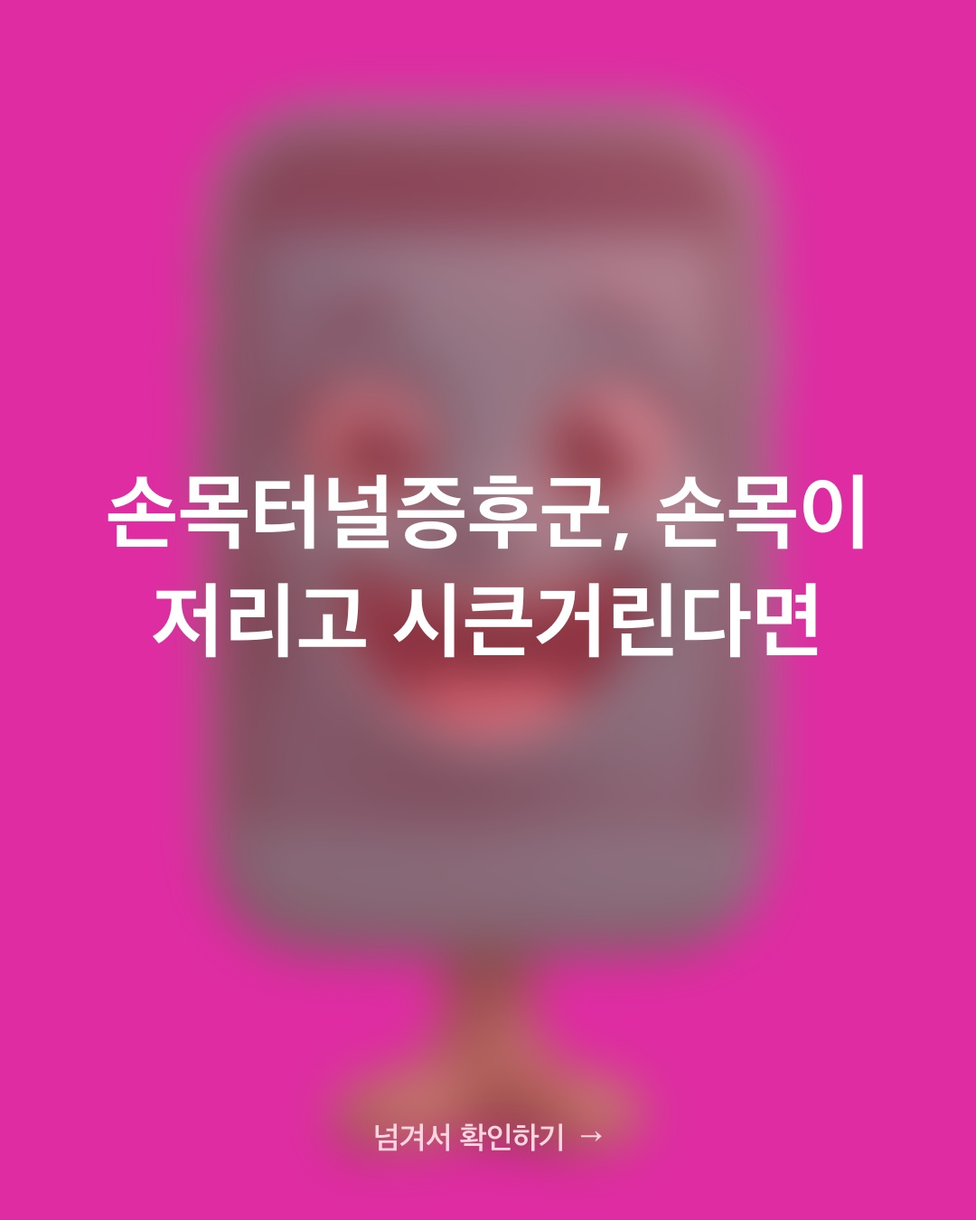
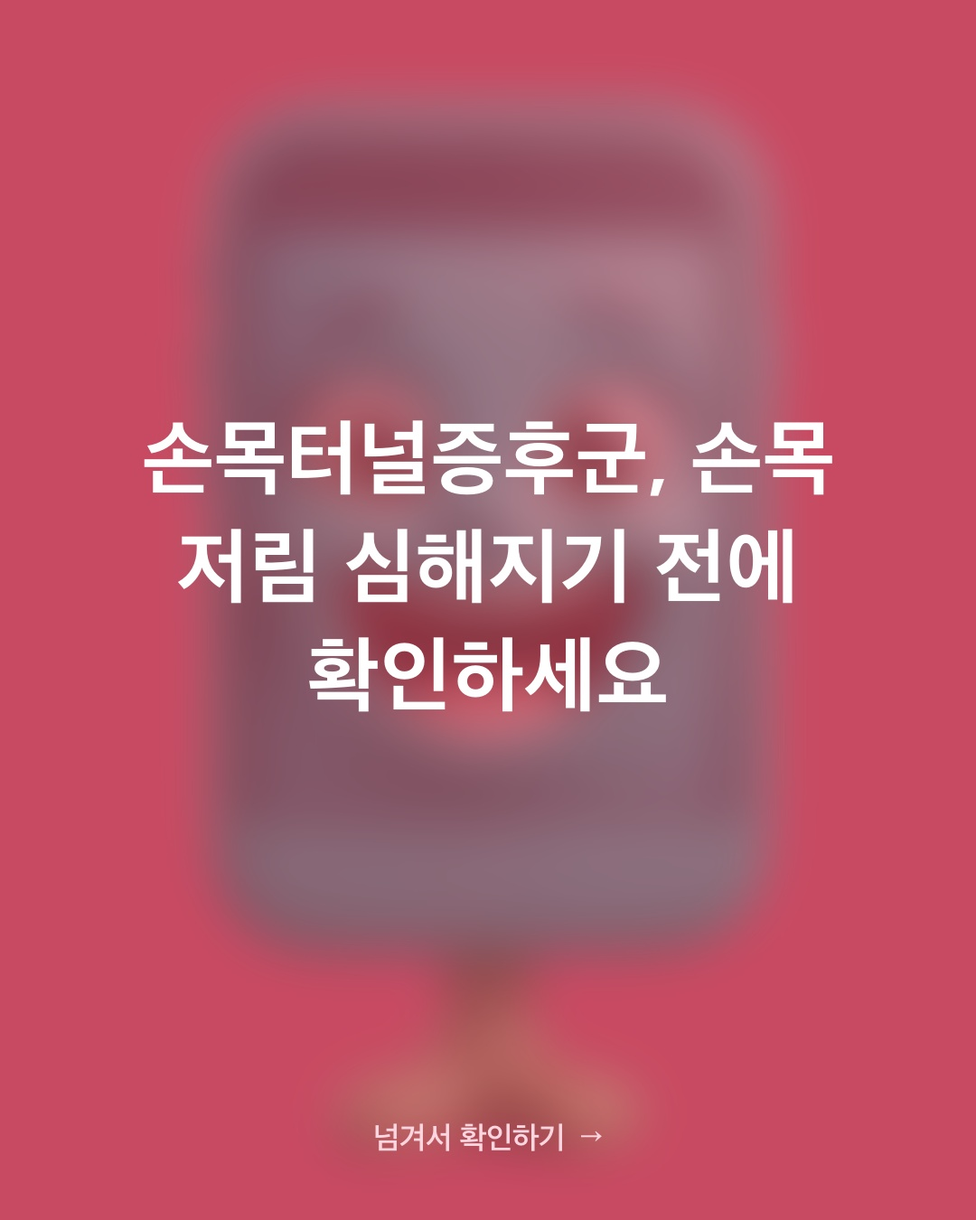
fix(content): 손발_3/입_8/코_4/손발_4 제목 훅 패턴 획일화 수정 + QA 체크리스트 보강
4개 topic 전부 "[키워드], ~다면 - OO 습관"이라는 동일한 조건문 패턴으로
제목이 획일화된 문제 발견(사용자 지적) — content_review.py의
select_hook_pattern()이 이미 topic별로 12종 패턴을 결정론적으로 배정하는데도
실제로 안 돌려서 못 지켜졌음. 각 topic의 실제 배정 패턴대로 재작성:
- 손발_3(손목터널증후군)·손발_4(족저근막염): 긴급/시급성형 "~라면 지금 확인하세요"
- 입_8(치석): 비교/대조형 "~가 아니라 이 습관 때문일 수 있어요"
- 코_4(축농증): 직접화법 질문형 "혹시 ~하지 않나요?"

카드뉴스 표지 이미지·영상 타이틀 카드·9개 플랫폼 캡션 전부 갱신, content_review
재통과 확인.

재발 방지: CLAUDE.md "콘텐츠 QA — 완료 전 필수" 체크리스트에 --hook-pattern
명령을 content_review/--lang-check와 나란히 추가 — "콘텐츠 톤" 절에만
있어서 실제 완료 게이트에서 누락됐던 구조적 원인 수정.

diff --git a/output/손발_4/ko/dashboard.html b/output/손발_4/ko/dashboard.html
@@ -3,7 +3,7 @@
 <head>
 <meta charset="UTF-8">
 <meta name="viewport" content="width=device-width, initial-scale=1.0">
-<title>족저근막염, 아침 첫 걸음에 발뒤꿈치가 찌릿하다면 - 발 지키는 습관 — 업로드 대시보드</title>
+<title>족저근막염, 첫 걸음이 찌릿하다면 지금 확인하세요 - 발 지키는 습관 — 업로드 대시보드</title>
 <style>
   :root {
     --bg-top: #fdf9f5; --bg-bottom: #f6ede6;
@@ -221,7 +221,7 @@
 <body>
 <header>
   <div class="eyebrow">업로드 대시보드</div>
-  <h1>족저근막염, 아침 첫 걸음에 발뒤꿈치가 찌릿하다면 - 발 지키는 습관</h1>
+  <h1>족저근막염, 첫 걸음이 찌릿하다면 지금 확인하세요 - 발 지키는 습관</h1>
   <span class="ad-tag-badge">🏷 광고표시 적용</span>
 </header>
 
@@ -311,7 +311,7 @@
   </div>
   <div class="action-line">영상 다운로드 → 릴스로 업로드 → 캡션 복사해서 붙여넣기</div>
   <a class="asset-link" href="card_news/%EC%86%90%EB%B0%9C_4_00_%ED%91%9C%EC%A7%80.jpg" download="손발_4_00_표지.jpg">🖼 표지 이미지 다운로드 (선택)</a>
-  <textarea class="caption-box" id="cap-0" spellcheck="false">아침 첫 걸음에 발뒤꿈치가 찌릿하다면? 👀
+  <textarea class="caption-box" id="cap-0" spellcheck="false">족저근막염, 첫 걸음이 찌릿하다면 지금 확인하세요 👀
 
 운동량 천천히, 쿠션 있는 신발, 아침 스트레칭 — 이 세 가지만 신경 써도 도움이 될 수 있어요. 운동량은 조금씩 늘리고, 서 있는 날엔 쿠션 신발을, 일어나기 전엔 발목을 돌려보세요.
 
@@ -342,7 +342,7 @@
   </div>
   <div class="action-line">PC 링크는 제한적 — 모바일 네이버 앱에서 클립 업로드 → 캡션 복사해서 붙여넣기 (설명 300자 제한 기준으로 작성함)</div>
   <a class="asset-link" href="card_news/%EC%86%90%EB%B0%9C_4_00_%ED%91%9C%EC%A7%80.jpg" download="손발_4_00_표지.jpg">🖼 표지 이미지 다운로드 (선택)</a>
-  <textarea class="caption-box" id="cap-1" spellcheck="false">아침 첫 걸음에 발뒤꿈치가 찌릿하다면?
+  <textarea class="caption-box" id="cap-1" spellcheck="false">족저근막염, 첫 걸음이 찌릿하다면 지금 확인하세요.
 
 운동량 급증, 쿠션 없는 신발, 아침 스트레칭 생략이 족저근막 손상을 더 키워요. 운동량은 천천히, 일어나기 전엔 발목을 돌려보세요!
 
@@ -371,7 +371,7 @@
   </div>
   <div class="action-line">캡션 복사 → 새 게시물 작성 → 붙여넣기 (표지 이미지 첨부 권장) → 게시 후 댓글에 구매 링크 추가</div>
   <a class="asset-link" href="card_news/%EC%86%90%EB%B0%9C_4_00_%ED%91%9C%EC%A7%80.jpg" download="손발_4_00_표지.jpg">🖼 표지 이미지 다운로드 (선택)</a>
-  <textarea class="caption-box" id="cap-2" spellcheck="false">족저근막염, 아침 첫 걸음에 발뒤꿈치가 찌릿하다면 - 발 지키는 습관
+  <textarea class="caption-box" id="cap-2" spellcheck="false">족저근막염, 첫 걸음이 찌릿하다면 지금 확인하세요 - 발 지키는 습관
 
 운동량 급증, 쿠션 없는 신발, 아침 스트레칭 생략이 족저근막 손상을 더 키워요. 운동량은 조금씩 늘리고, 서 있는 날엔 쿠션 신발을 신고, 일어나기 전 발목·종아리를 늘려주면 첫걸음 통증을 줄일 수 있어요.
 
@@ -405,7 +405,7 @@
   </div>
   <div class="action-line">캡션 복사 → 붙여넣기 (표지 이미지는 위 다운로드 버튼으로 별도 삽입, 나머지는 번호 위치에 해당 이미지 직접 삽입)</div>
   <a class="asset-link" href="card_news/%EC%86%90%EB%B0%9C_4_00_%ED%91%9C%EC%A7%80.jpg" download="손발_4_00_표지.jpg">🖼 표지 이미지 다운로드 (선택)</a>
-  <textarea class="caption-box" id="cap-3" spellcheck="false">족저근막염, 아침 첫 걸음에 발뒤꿈치가 찌릿하다면 - 발 지키는 습관
+  <textarea class="caption-box" id="cap-3" spellcheck="false">족저근막염, 첫 걸음이 찌릿하다면 지금 확인하세요 - 발 지키는 습관
 
 00 · 표지
 
@@ -479,7 +479,7 @@
   </div>
   <div class="action-line">캡션 복사 → 붙여넣기 (표지 이미지는 위 다운로드 버튼으로 별도 삽입, 나머지는 번호 위치에 해당 이미지 직접 삽입)</div>
   <a class="asset-link" href="card_news/%EC%86%90%EB%B0%9C_4_00_%ED%91%9C%EC%A7%80.jpg" download="손발_4_00_표지.jpg">🖼 표지 이미지 다운로드 (선택)</a>
-  <textarea class="caption-box" id="cap-4" spellcheck="false">족저근막염, 아침 첫 걸음에 발뒤꿈치가 찌릿하다면 - 발 지키는 습관
+  <textarea class="caption-box" id="cap-4" spellcheck="false">족저근막염, 첫 걸음이 찌릿하다면 지금 확인하세요 - 발 지키는 습관
 
 00 · 표지
 

diff --git a/output/입_8/ko/dashboard.html b/output/입_8/ko/dashboard.html
@@ -3,7 +3,7 @@
 <head>
 <meta charset="UTF-8">
 <meta name="viewport" content="width=device-width, initial-scale=1.0">
-<title>치석, 양치를 꼬박꼬박 하는데도 자꾸 낀다면 - 치석 막는 습관 — 업로드 대시보드</title>
+<title>치석, 양치 부족이 아니라 이 습관 때문일 수 있어요 - 치석 막는 습관 — 업로드 대시보드</title>
 <style>
   :root {
     --bg-top: #fdf9f5; --bg-bottom: #f6ede6;
@@ -221,7 +221,7 @@
 <body>
 <header>
   <div class="eyebrow">업로드 대시보드</div>
-  <h1>치석, 양치를 꼬박꼬박 하는데도 자꾸 낀다면 - 치석 막는 습관</h1>
+  <h1>치석, 양치 부족이 아니라 이 습관 때문일 수 있어요 - 치석 막는 습관</h1>
   <span class="ad-tag-badge">🏷 광고표시 적용</span>
 </header>
 
@@ -311,7 +311,7 @@
   </div>
   <div class="action-line">영상 다운로드 → 릴스로 업로드 → 캡션 복사해서 붙여넣기</div>
   <a class="asset-link" href="card_news/%EC%9E%85_8_00_%ED%91%9C%EC%A7%80.jpg" download="입_8_00_표지.jpg">🖼 표지 이미지 다운로드 (선택)</a>
-  <textarea class="caption-box" id="cap-0" spellcheck="false">양치를 꼬박꼬박 하는데도 치석이 자꾸 낀다면? 👀
+  <textarea class="caption-box" id="cap-0" spellcheck="false">치석, 양치 부족이 아니라 이 습관 때문일 수 있어요 👀
 
 치실·치간칫솔, 자기 전 양치, 간식 횟수 — 이 세 가지만 신경 써도 도움이 될 수 있어요. 칫솔질 후엔 치실로 마무리하고, 자기 전 양치는 꼭 챙기고, 단 음식은 횟수를 줄여보세요.
 
@@ -342,7 +342,7 @@
   </div>
   <div class="action-line">PC 링크는 제한적 — 모바일 네이버 앱에서 클립 업로드 → 캡션 복사해서 붙여넣기 (설명 300자 제한 기준으로 작성함)</div>
   <a class="asset-link" href="card_news/%EC%9E%85_8_00_%ED%91%9C%EC%A7%80.jpg" download="입_8_00_표지.jpg">🖼 표지 이미지 다운로드 (선택)</a>
-  <textarea class="caption-box" id="cap-1" spellcheck="false">양치를 꼬박꼬박 하는데도 치석이 자꾸 낀다면?
+  <textarea class="caption-box" id="cap-1" spellcheck="false">치석, 양치 부족이 아니라 이 습관 때문일 수 있어요.
 
 치실·치간칫솔 안 쓰기, 자기 전 양치 거르기, 잦은 단 음식이 치석을 더 빨리 만들어요. 칫솔질 후 치실로 마무리하고, 자기 전 양치는 꼭 챙기세요!
 
@@ -371,7 +371,7 @@
   </div>
   <div class="action-line">캡션 복사 → 새 게시물 작성 → 붙여넣기 (표지 이미지 첨부 권장) → 게시 후 댓글에 구매 링크 추가</div>
   <a class="asset-link" href="card_news/%EC%9E%85_8_00_%ED%91%9C%EC%A7%80.jpg" download="입_8_00_표지.jpg">🖼 표지 이미지 다운로드 (선택)</a>
-  <textarea class="caption-box" id="cap-2" spellcheck="false">치석, 양치를 꼬박꼬박 하는데도 자꾸 낀다면 - 치석 막는 습관
+  <textarea class="caption-box" id="cap-2" spellcheck="false">치석, 양치 부족이 아니라 이 습관 때문일 수 있어요 - 치석 막는 습관
 
 치실·치간칫솔 안 쓰기, 자기 전 양치 거르기, 잦은 단 음식이 치석을 더 빨리 만들어요. 칫솔질 후엔 치실로 마무리하고, 자기 전 양치는 꼭 챙기고, 단 음식은 횟수를 줄이면 치석 생기는 속도를 늦출 수 있어요.
 
@@ -405,7 +405,7 @@
   </div>
   <div class="action-line">캡션 복사 → 붙여넣기 (표지 이미지는 위 다운로드 버튼으로 별도 삽입, 나머지는 번호 위치에 해당 이미지 직접 삽입)</div>
   <a class="asset-link" href="card_news/%EC%9E%85_8_00_%ED%91%9C%EC%A7%80.jpg" download="입_8_00_표지.jpg">🖼 표지 이미지 다운로드 (선택)</a>
-  <textarea class="caption-box" id="cap-3" spellcheck="false">치석, 양치를 꼬박꼬박 하는데도 자꾸 낀다면 - 치석 막는 습관
+  <textarea class="caption-box" id="cap-3" spellcheck="false">치석, 양치 부족이 아니라 이 습관 때문일 수 있어요 - 치석 막는 습관
 
 00 · 표지
 
@@ -479,7 +479,7 @@
   </div>
   <div class="action-line">캡션 복사 → 붙여넣기 (표지 이미지는 위 다운로드 버튼으로 별도 삽입, 나머지는 번호 위치에 해당 이미지 직접 삽입)</div>
   <a class="asset-link" href="card_news/%EC%9E%85_8_00_%ED%91%9C%EC%A7%80.jpg" download="입_8_00_표지.jpg">🖼 표지 이미지 다운로드 (선택)</a>
-  <textarea class="caption-box" id="cap-4" spellcheck="false">치석, 양치를 꼬박꼬박 하는데도 자꾸 낀다면 - 치석 막는 습관
+  <textarea class="caption-box" id="cap-4" spellcheck="false">치석, 양치 부족이 아니라 이 습관 때문일 수 있어요 - 치석 막는 습관
 
 00 · 표지
 

diff --git a/output/손발_3/ko/dashboard.html b/output/손발_3/ko/dashboard.html
@@ -3,7 +3,7 @@
 <head>
 <meta charset="UTF-8">
 <meta name="viewport" content="width=device-width, initial-scale=1.0">
-<title>손목터널증후군, 손목이 저리고 시큰거린다면 - 손목 지키는 습관 — 업로드 대시보드</title>
+<title>손목터널증후군, 손목 저림 심해지기 전에 확인하세요 - 손목 지키는 습관 — 업로드 대시보드</title>
 <style>
   :root {
     --bg-top: #fdf9f5; --bg-bottom: #f6ede6;
@@ -221,7 +221,7 @@
 <body>
 <header>
   <div class="eyebrow">업로드 대시보드</div>
-  <h1>손목터널증후군, 손목이 저리고 시큰거린다면 - 손목 지키는 습관</h1>
+  <h1>손목터널증후군, 손목 저림 심해지기 전에 확인하세요 - 손목 지키는 습관</h1>
   <span class="ad-tag-badge">🏷 광고표시 적용</span>
 </header>
 
@@ -311,7 +311,7 @@
   </div>
   <div class="action-line">영상 다운로드 → 릴스로 업로드 → 캡션 복사해서 붙여넣기</div>
   <a class="asset-link" href="card_news/%EC%86%90%EB%B0%9C_3_00_%ED%91%9C%EC%A7%80.jpg" download="손발_3_00_표지.jpg">🖼 표지 이미지 다운로드 (선택)</a>
-  <textarea class="caption-box" id="cap-0" spellcheck="false">손목이 저리고 시큰거린다면? 👀
+  <textarea class="caption-box" id="cap-0" spellcheck="false">손목 저림, 심해지기 전에 확인하세요 👀
 
 스마트폰·키보드마우스·수면 자세 — 이 세 가지만 신경 써도 도움이 될 수 있어요. 스마트폰은 손목 편 상태로, 키보드·마우스는 손목받침대로, 잘 땐 손목보호대를 착용해보세요.
 
@@ -342,7 +342,7 @@
   </div>
   <div class="action-line">PC 링크는 제한적 — 모바일 네이버 앱에서 클립 업로드 → 캡션 복사해서 붙여넣기 (설명 300자 제한 기준으로 작성함)</div>
   <a class="asset-link" href="card_news/%EC%86%90%EB%B0%9C_3_00_%ED%91%9C%EC%A7%80.jpg" download="손발_3_00_표지.jpg">🖼 표지 이미지 다운로드 (선택)</a>
-  <textarea class="caption-box" id="cap-1" spellcheck="false">손목이 저리고 시큰거린다면?
+  <textarea class="caption-box" id="cap-1" spellcheck="false">손목 저림, 심해지기 전에 확인하세요.
 
 스마트폰·키보드마우스·수면 자세가 손목 신경 압박을 더 키워요. 손목받침대 쓰고, 자기 전엔 손목보호대를 착용해보세요!
 
@@ -371,7 +371,7 @@
   </div>
   <div class="action-line">캡션 복사 → 새 게시물 작성 → 붙여넣기 (표지 이미지 첨부 권장) → 게시 후 댓글에 구매 링크 추가</div>
   <a class="asset-link" href="card_news/%EC%86%90%EB%B0%9C_3_00_%ED%91%9C%EC%A7%80.jpg" download="손발_3_00_표지.jpg">🖼 표지 이미지 다운로드 (선택)</a>
-  <textarea class="caption-box" id="cap-2" spellcheck="false">손목터널증후군, 손목이 저리고 시큰거린다면 - 손목 지키는 습관
+  <textarea class="caption-box" id="cap-2" spellcheck="false">손목터널증후군, 손목 저림 심해지기 전에 확인하세요 - 손목 지키는 습관
 
 스마트폰·키보드마우스·수면 자세가 손목 신경 압박을 더 키워요. 스마트폰은 손목 편 상태로, 키보드·마우스는 손목받침대로, 잘 땐 손목보호대를 착용하면 손목 부담을 줄일 수 있어요.
 
@@ -405,7 +405,7 @@
   </div>
   <div class="action-line">캡션 복사 → 붙여넣기 (표지 이미지는 위 다운로드 버튼으로 별도 삽입, 나머지는 번호 위치에 해당 이미지 직접 삽입)</div>
   <a class="asset-link" href="card_news/%EC%86%90%EB%B0%9C_3_00_%ED%91%9C%EC%A7%80.jpg" download="손발_3_00_표지.jpg">🖼 표지 이미지 다운로드 (선택)</a>
-  <textarea class="caption-box" id="cap-3" spellcheck="false">손목터널증후군, 손목이 저리고 시큰거린다면 - 손목 지키는 습관
+  <textarea class="caption-box" id="cap-3" spellcheck="false">손목터널증후군, 손목 저림 심해지기 전에 확인하세요 - 손목 지키는 습관
 
 00 · 표지
 
@@ -479,7 +479,7 @@
   </div>
   <div class="action-line">캡션 복사 → 붙여넣기 (표지 이미지는 위 다운로드 버튼으로 별도 삽입, 나머지는 번호 위치에 해당 이미지 직접 삽입)</div>
   <a class="asset-link" href="card_news/%EC%86%90%EB%B0%9C_3_00_%ED%91%9C%EC%A7%80.jpg" download="손발_3_00_표지.jpg">🖼 표지 이미지 다운로드 (선택)</a>
-  <textarea class="caption-box" id="cap-4" spellcheck="false">손목터널증후군, 손목이 저리고 시큰거린다면 - 손목 지키는 습관
+  <textarea class="caption-box" id="cap-4" spellcheck="false">손목터널증후군, 손목 저림 심해지기 전에 확인하세요 - 손목 지키는 습관
 
 00 · 표지
 

diff --git a/output/코_4/ko/dashboard.html b/output/코_4/ko/dashboard.html
@@ -3,7 +3,7 @@
 <head>
 <meta charset="UTF-8">
 <meta name="viewport" content="width=device-width, initial-scale=1.0">
-<title>축농증, 콧물이 누렇고 코가 계속 막힌다면 - 콧속 배출 돕는 습관 — 업로드 대시보드</title>
+<title>축농증, 혹시 콧물이 계속 막히지 않나요 - 콧속 배출 돕는 습관 — 업로드 대시보드</title>
 <style>
   :root {
     --bg-top: #fdf9f5; --bg-bottom: #f6ede6;
@@ -221,7 +221,7 @@
 <body>
 <header>
   <div class="eyebrow">업로드 대시보드</div>
-  <h1>축농증, 콧물이 누렇고 코가 계속 막힌다면 - 콧속 배출 돕는 습관</h1>
+  <h1>축농증, 혹시 콧물이 계속 막히지 않나요 - 콧속 배출 돕는 습관</h1>
   <span class="ad-tag-badge">🏷 광고표시 적용</span>
 </header>
 
@@ -311,7 +311,7 @@
   </div>
   <div class="action-line">영상 다운로드 → 릴스로 업로드 → 캡션 복사해서 붙여넣기</div>
   <a class="asset-link" href="card_news/%EC%BD%94_4_00_%ED%91%9C%EC%A7%80.jpg" download="코_4_00_표지.jpg">🖼 표지 이미지 다운로드 (선택)</a>
-  <textarea class="caption-box" id="cap-0" spellcheck="false">콧물이 누렇고 코가 계속 막힌다면? 👀
+  <textarea class="caption-box" id="cap-0" spellcheck="false">축농증, 혹시 콧물이 계속 막히지 않나요 👀
 
 코 살살 풀기, 스프레이 3일 제한, 실내 습도 — 이 세 가지만 신경 써도 도움이 될 수 있어요. 코는 한쪽씩 살살 풀고, 스프레이는 3일 넘게 쓰지 말고, 습도는 40~50%로 맞춰보세요.
 
@@ -342,7 +342,7 @@
   </div>
   <div class="action-line">PC 링크는 제한적 — 모바일 네이버 앱에서 클립 업로드 → 캡션 복사해서 붙여넣기 (설명 300자 제한 기준으로 작성함)</div>
   <a class="asset-link" href="card_news/%EC%BD%94_4_00_%ED%91%9C%EC%A7%80.jpg" download="코_4_00_표지.jpg">🖼 표지 이미지 다운로드 (선택)</a>
-  <textarea class="caption-box" id="cap-1" spellcheck="false">콧물이 누렇고 코가 계속 막힌다면?
+  <textarea class="caption-box" id="cap-1" spellcheck="false">축농증, 혹시 콧물이 계속 막히지 않나요?
 
 코 세게 풀기, 스프레이 3일 넘게 쓰기, 건조한 실내 공기가 부비동 막힘을 더 키워요. 코는 살살 풀고, 습도는 40~50%로 맞춰보세요!
 
@@ -371,7 +371,7 @@
   </div>
   <div class="action-line">캡션 복사 → 새 게시물 작성 → 붙여넣기 (표지 이미지 첨부 권장) → 게시 후 댓글에 구매 링크 추가</div>
   <a class="asset-link" href="card_news/%EC%BD%94_4_00_%ED%91%9C%EC%A7%80.jpg" download="코_4_00_표지.jpg">🖼 표지 이미지 다운로드 (선택)</a>
-  <textarea class="caption-box" id="cap-2" spellcheck="false">축농증, 콧물이 누렇고 코가 계속 막힌다면 - 콧속 배출 돕는 습관
+  <textarea class="caption-box" id="cap-2" spellcheck="false">축농증, 혹시 콧물이 계속 막히지 않나요 - 콧속 배출 돕는 습관
 
 코 세게 풀기, 코 스프레이 3일 넘게 쓰기, 건조한 실내 공기가 부비동 막힘을 더 키워요. 코는 한쪽씩 살살 풀고, 스프레이는 3일 넘게 쓰지 말고, 습도는 40~50%로 맞추면 콧속 배출이 훨씬 수월해져요.
 
@@ -405,7 +405,7 @@
   </div>
   <div class="action-line">캡션 복사 → 붙여넣기 (표지 이미지는 위 다운로드 버튼으로 별도 삽입, 나머지는 번호 위치에 해당 이미지 직접 삽입)</div>
   <a class="asset-link" href="card_news/%EC%BD%94_4_00_%ED%91%9C%EC%A7%80.jpg" download="코_4_00_표지.jpg">🖼 표지 이미지 다운로드 (선택)</a>
-  <textarea class="caption-box" id="cap-3" spellcheck="false">축농증, 콧물이 누렇고 코가 계속 막힌다면 - 콧속 배출 돕는 습관
+  <textarea class="caption-box" id="cap-3" spellcheck="false">축농증, 혹시 콧물이 계속 막히지 않나요 - 콧속 배출 돕는 습관
 
 00 · 표지
 
@@ -479,7 +479,7 @@
   </div>
   <div class="action-line">캡션 복사 → 붙여넣기 (표지 이미지는 위 다운로드 버튼으로 별도 삽입, 나머지는 번호 위치에 해당 이미지 직접 삽입)</div>
   <a class="asset-link" href="card_news/%EC%BD%94_4_00_%ED%91%9C%EC%A7%80.jpg" download="코_4_00_표지.jpg">🖼 표지 이미지 다운로드 (선택)</a>
-  <textarea class="caption-box" id="cap-4" spellcheck="false">축농증, 콧물이 누렇고 코가 계속 막힌다면 - 콧속 배출 돕는 습관
+  <textarea class="caption-box" id="cap-4" spellcheck="false">축농증, 혹시 콧물이 계속 막히지 않나요 - 콧속 배출 돕는 습관
 
 00 · 표지
 

diff --git a/output/손발_3/dashboard.html b/output/손발_3/dashboard.html
@@ -3,7 +3,7 @@
 <head>
 <meta charset="UTF-8">
 <meta name="viewport" content="width=device-width, initial-scale=1.0">
-<title>손목터널증후군, 손목이 저리고 시큰거린다면 - 손목 지키는 습관 — 업로드 대시보드</title>
+<title>손목터널증후군, 손목 저림 심해지기 전에 확인하세요 - 손목 지키는 습관 — 업로드 대시보드</title>
 <style>
   :root {
     --bg-top: #fdf9f5; --bg-bottom: #f6ede6;
@@ -77,7 +77,7 @@
 <body>
 <a class="back" href="../../index.html">← 목록으로</a>
 <header>
-  <h1>손목터널증후군, 손목이 저리고 시큰거린다면 - 손목 지키는 습관</h1>
+  <h1>손목터널증후군, 손목 저림 심해지기 전에 확인하세요 - 손목 지키는 습관</h1>
   <p>언어별로 캡션·영상을 확인·업로드하세요 — 한 언어씩 완료해도 그대로 나머지가 이어집니다</p>
 </header>
 <main>

diff --git a/output/손발_4/dashboard.html b/output/손발_4/dashboard.html
@@ -3,7 +3,7 @@
 <head>
 <meta charset="UTF-8">
 <meta name="viewport" content="width=device-width, initial-scale=1.0">
-<title>족저근막염, 아침 첫 걸음에 발뒤꿈치가 찌릿하다면 - 발 지키는 습관 — 업로드 대시보드</title>
+<title>족저근막염, 첫 걸음이 찌릿하다면 지금 확인하세요 - 발 지키는 습관 — 업로드 대시보드</title>
 <style>
   :root {
     --bg-top: #fdf9f5; --bg-bottom: #f6ede6;
@@ -77,7 +77,7 @@
 <body>
 <a class="back" href="../../index.html">← 목록으로</a>
 <header>
-  <h1>족저근막염, 아침 첫 걸음에 발뒤꿈치가 찌릿하다면 - 발 지키는 습관</h1>
+  <h1>족저근막염, 첫 걸음이 찌릿하다면 지금 확인하세요 - 발 지키는 습관</h1>
   <p>언어별로 캡션·영상을 확인·업로드하세요 — 한 언어씩 완료해도 그대로 나머지가 이어집니다</p>
 </header>
 <main>

diff --git a/output/입_8/dashboard.html b/output/입_8/dashboard.html
@@ -3,7 +3,7 @@
 <head>
 <meta charset="UTF-8">
 <meta name="viewport" content="width=device-width, initial-scale=1.0">
-<title>치석, 양치를 꼬박꼬박 하는데도 자꾸 낀다면 - 치석 막는 습관 — 업로드 대시보드</title>
+<title>치석, 양치 부족이 아니라 이 습관 때문일 수 있어요 - 치석 막는 습관 — 업로드 대시보드</title>
 <style>
   :root {
     --bg-top: #fdf9f5; --bg-bottom: #f6ede6;
@@ -77,7 +77,7 @@
 <body>
 <a class="back" href="../../index.html">← 목록으로</a>
 <header>
-  <h1>치석, 양치를 꼬박꼬박 하는데도 자꾸 낀다면 - 치석 막는 습관</h1>
+  <h1>치석, 양치 부족이 아니라 이 습관 때문일 수 있어요 - 치석 막는 습관</h1>
   <p>언어별로 캡션·영상을 확인·업로드하세요 — 한 언어씩 완료해도 그대로 나머지가 이어집니다</p>
 </header>
 <main>

diff --git a/output/코_4/dashboard.html b/output/코_4/dashboard.html
@@ -3,7 +3,7 @@
 <head>
 <meta charset="UTF-8">
 <meta name="viewport" content="width=device-width, initial-scale=1.0">
-<title>축농증, 콧물이 누렇고 코가 계속 막힌다면 - 콧속 배출 돕는 습관 — 업로드 대시보드</title>
+<title>축농증, 혹시 콧물이 계속 막히지 않나요 - 콧속 배출 돕는 습관 — 업로드 대시보드</title>
 <style>
   :root {
     --bg-top: #fdf9f5; --bg-bottom: #f6ede6;
@@ -77,7 +77,7 @@
 <body>
 <a class="back" href="../../index.html">← 목록으로</a>
 <header>
-  <h1>축농증, 콧물이 누렇고 코가 계속 막힌다면 - 콧속 배출 돕는 습관</h1>
+  <h1>축농증, 혹시 콧물이 계속 막히지 않나요 - 콧속 배출 돕는 습관</h1>
   <p>언어별로 캡션·영상을 확인·업로드하세요 — 한 언어씩 완료해도 그대로 나머지가 이어집니다</p>
 </header>
 <main>

diff --git a/CLAUDE.md b/CLAUDE.md
@@ -609,11 +609,18 @@
 ```
 python3 -m lib.content_review <topic> [lang]   # 논리 오류·과장·성의없는 대체재 검사
 python3 -m lib.content_review --lang-check <base_topic>   # 다국어: 진짜 독립 리서치인지
+python3 -m lib.content_review --hook-pattern <topic>   # 제목 작성 전에 먼저 — 12종 훅 패턴 중 이번 topic이 뭔지 확인
 ```
 
 - **새 topic은 narration.txt/card_news_spec.json 완성 시점에 `content_review` 통과가
   완료 조건**(다른 언어 추가 시 `--lang-check`도 함께). 플래그된 문제는 자동
   수정 안 됨 — 사람/세션이 판단해서 직접 고칠 것.
+- ⚠ **`--hook-pattern`은 title을 쓰기 전에 먼저 돌릴 것(2026-08-12 재확인)** —
+  "훅은 핵심 키워드로 시작" 규칙(아래 "콘텐츠 톤" 절)만 적용하고 이 명령은
+  건너뛴 채 4개 topic 전부 "[키워드], ~다면 - OO 습관" 한 패턴으로 제목이
+  획일화된 사고 발생. content_review/--lang-check와 나란히 여기 QA 체크리스트에
+  있어야 실제로 매번 돌아간다 — "콘텐츠 톤" 절에만 적혀 있으면 다른 톤 규칙에
+  묻혀 누락되기 쉬움.
 - 권장 순서: `content_review`/`--lang-check` 통과를 TTS 호출 **전에** 끝내면
   사후 재생성 자체가 필요 없어진다 — 다만 TTS 이후에 실제 오류가 발견되면
   재생성한다(위 "콘텐츠 톤" 절 TTS 규칙 참고, 절대 규칙은 아니고 권장 순서).
